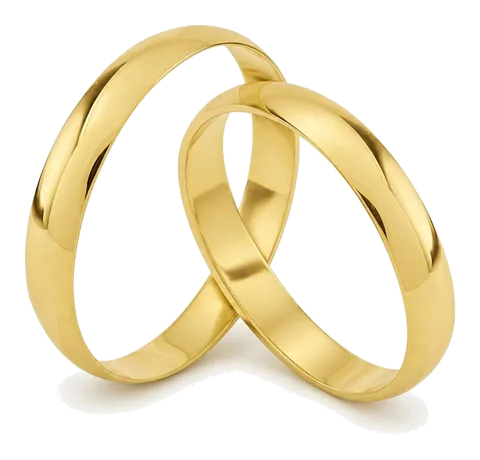
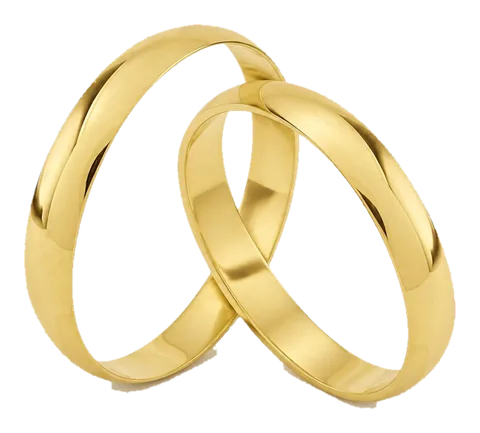
Tira a sombra do fundo que ficou na base das alianças de ouro
Seis fotos (005, 033E, 033, ESC3, 6BVL, X) vinham com a sombra do par no
chão, um cinza neutro entre ~175 e 238; o recorte só tirava o branco
>= 238, e a sombra aparecia como mancha clara na base da peça. Agora o
fundo inclui o cinza acromático e, rente à peça, a sombra bege, separada
do ouro pela saturação (~0,17 contra 0,30+). Essa faixa só vale a partir
da borda da foto: nos vãos, o mesmo tom é reflexo da parede interna.
A borda recua 1px para tirar o halo claro.

O script passa a extrair as fotos com PyMuPDF (o pdfimages não está
instalado). As 3 com máscara no PDF e as fotos na mão não mudaram.

diff --git a/tools/importar-aliancas-ouro.py b/tools/importar-aliancas-ouro.py
@@ -5,27 +5,36 @@ Importador das fotos das alianças de ouro (catálogo de outubro/2026).
 A origem é um PDF (`alianças de ouro/catalogo-ouro-2026-10.pdf`, fora do git),
 não uma pasta de fotos: 18 páginas, duas por par — a foto do produto (com a
 legenda "Cod: ... / largura / peso" escrita como TEXTO do PDF, não na imagem) e
-a foto do par na mão. As imagens embutidas saem inteiras com `pdfimages`
-(poppler-utils), sem rasterizar a página — sem perda e sem a legenda.
+a foto do par na mão. As imagens embutidas saem inteiras com PyMuPDF, sem
+rasterizar a página — sem perda e sem a legenda.
 
 Três das fotos de produto já vêm com máscara (smask) no PDF; as outras seis
-estão sobre branco chapado e passam pelo mesmo recorte por preenchimento das
-pratas (tools/importar-aliancas-prata.py): só sai o branco ligado à borda, e os
-vãos dos aros entram pela erosão. Reflexo do ouro é amarelado, não cinza, e o
-teste de acromático o protege.
+estão sobre branco e passam por um recorte por preenchimento: só sai o fundo
+ligado à borda, e os vãos dos aros entram pela erosão.
+
+O FUNDO NÃO É SÓ BRANCO (19/10/2026): essas seis fotos têm a sombra do par no
+chão, um cinza neutro entre ~175 e 238. O primeiro recorte só tirava o branco
+quase puro (>= 238), e a sombra ficou grudada na base das alianças, como uma
+mancha clara sobre o marfim do card. Agora o fundo é todo pixel ACROMÁTICO e
+claro ligado à borda; a sombra que reflete um pouco do ouro (levemente quente)
+entra numa segunda faixa, mais clara e com um pouco mais de cor. O ouro, mesmo
+no reflexo mais claro, é amarelo (croma bem acima disso), e as zircônias ficam
+cercadas de ouro, sem ligação com a borda.
 
 SAÍDA, em public/produtos/ouro/ (versionada):
     002.webp / 002-sm.webp           recorte, 960 / 480 px
     002-mao.webp / 002-mao-sm.webp   foto na mão, quadrada, 960 / 480 px
 
 Uso:
+    pip install pymupdf
     python tools/importar-aliancas-ouro.py
-Exige `pdfimages` no PATH. Idempotente.
+Idempotente.
 
-A ordem das imagens no PDF é a de PECAS abaixo. Se o PDF mudar, confira com
-`pdfimages -list` antes de rodar — o script não adivinha qual foto é de quem.
+Página 2k-1 é a foto do produto e 2k a da mão, na ordem de PECAS abaixo. Se o
+PDF mudar, confira as páginas antes de rodar — o script não adivinha qual foto
+é de quem.
 """
-import os, subprocess, sys, tempfile
+import io, os, sys
 import numpy as np
 from PIL import Image, ImageDraw, ImageFilter
 RAIZ = os.path.dirname(os.path.dirname(os.path.abspath(__file__)))
@@ -33,18 +42,40 @@ PDF = os.path.join(RAIZ, "alianças de ouro", "catalogo-ouro-2026-10.pdf")
 DST = os.path.join(RAIZ, "public", "produtos", "ouro")
 if not os.path.isfile(PDF):
     sys.exit(f"PDF não encontrado: {PDF}")
+try:
+    import pymupdf
+except ImportError:
+    sys.exit("Falta o PyMuPDF: pip install pymupdf")
 os.makedirs(DST, exist_ok=True)
-SRC = tempfile.mkdtemp(prefix="ouro-")
-subprocess.run(["pdfimages", "-png", PDF, os.path.join(SRC, "img")], check=True)
-# (sku, foto do produto, máscara, foto na mão) — números do `pdfimages -list`.
+DOC = pymupdf.open(PDF)
+def imagem(xref):
+    return Image.open(io.BytesIO(DOC.extract_image(xref)["image"]))
+def da_pagina(n):
+    """(foto, máscara ou None) da única imagem da página n (1 = primeira)."""
+    xref, smask = DOC[n-1].get_images(full=True)[0][:2]
+    return imagem(xref), (imagem(smask) if smask else None)
+# Na ordem das páginas: a peça i ocupa as páginas 2i+1 (produto) e 2i+2 (mão).
 # "X" é a peça da página 17, que veio sem legenda: código a confirmar.
-PECAS = [("002","000","001","002"),("003","003","004","005"),("005","006",None,"007"),
- ("033E","008",None,"009"),("033","010",None,"011"),("034","012","013","014"),
- ("ESC3","015",None,"016"),("6BVL","017",None,"018"),("X","019",None,"020")]
-LIM, DESV, EROS = 238, 14, 21
+PECAS = ["002","003","005","033E","033","034","ESC3","6BVL","X"]
+# Fundo: (claridade mínima, croma máximo). A 1ª faixa é o branco e a sombra
+# cinza; a 2ª, a sombra mais clara que puxa um pouco para o tom do ouro.
+FAIXAS, EROS = ((170, 18), (205, 34)), 21
+# Rente à peça a sombra fica bege, ex. (215, 201, 178): croma ~37, igual ao de
+# borda de ouro, mas SATURAÇÃO (croma / canal mais claro) ~0,17, quando o ouro,
+# mesmo escuro, passa de 0,30. O teto de claridade protege o brilho polido do
+# ouro, que é quase branco (250+) e pouco saturado.
+SOMBRA_SAT, SOMBRA_MAX, SOMBRA_MIN = 0.21, 238, 140
 def recorta(im):
     arr = np.asarray(im.convert("RGB")).astype(np.int16)
-    br = (arr.min(2) >= LIM) & ((arr.max(2)-arr.min(2)) <= DESV)
+    lo, cr = arr.min(2), arr.max(2)-arr.min(2)
+    estrito = np.zeros(lo.shape, bool)
+    for claro, croma in FAIXAS:
+        estrito |= (lo >= claro) & (cr <= croma)
+    hi = arr.max(2)
+    # A sombra bege só existe por fora, no chão. Nos vãos dos aros, o mesmo
+    # tom é reflexo da parede interna do ouro — por isso ela entra só no
+    # preenchimento que parte da borda da foto, e os vãos usam o estrito.
+    br = estrito | ((lo >= SOMBRA_MIN) & (hi <= SOMBRA_MAX) & (cr <= SOMBRA_SAT * hi))
     m = Image.fromarray((br*255).astype(np.uint8),"L").copy()
     w,h = m.size; px = m.load()
     for x in range(0,w,3):
@@ -53,14 +84,19 @@ def recorta(im):
     for y in range(0,h,3):
         for x in (0,w-1):
             if px[x,y]==255: ImageDraw.floodfill(m,(x,y),128)
-    rest = Image.fromarray(((np.asarray(m)==255)*255).astype(np.uint8),"L")
-    nuc = np.asarray(rest.filter(ImageFilter.MinFilter(EROS)))>0
+    fora = np.asarray(m)==128
+    # .copy(): imagem vinda do numpy é só-leitura, e o floodfill falha calado.
+    v = Image.fromarray((estrito & ~fora).astype(np.uint8)*255,"L").copy(); pv = v.load()
+    nuc = np.asarray(v.filter(ImageFilter.MinFilter(EROS)))>0
     ys,xs = np.nonzero(nuc)
     for y,x in zip(ys[::300],xs[::300]):
-        if px[int(x),int(y)]==255: ImageDraw.floodfill(m,(int(x),int(y)),128)
-    a = np.where(np.asarray(m)==128,0,255).astype(np.uint8)
-    # borda suave: 1px de desfoque na máscara evita serrilhado
-    a = np.asarray(Image.fromarray(a,"L").filter(ImageFilter.GaussianBlur(0.8)))
+        if pv[int(x),int(y)]==255: ImageDraw.floodfill(v,(int(x),int(y)),128)
+    fundo = fora | (np.asarray(v)==128)
+    a = np.where(fundo,0,255).astype(np.uint8)
+    # A borda da peça é meio ouro, meio fundo: recuar 1px tira o halo claro.
+    # Depois, 1px de desfoque na máscara evita serrilhado.
+    a = Image.fromarray(a,"L").filter(ImageFilter.MinFilter(3))
+    a = np.asarray(a.filter(ImageFilter.GaussianBlur(0.8)))
     o = im.convert("RGBA"); o.putalpha(Image.fromarray(a,"L")); return o
 def apara(im, folga=0.03):
     bb = im.getchannel("A").point(lambda v:255 if v>8 else 0).getbbox()
@@ -70,15 +106,16 @@ def salva(im, nome, larguras):
     for suf,lw in larguras.items():
         e = lw/im.width
         im.resize((lw, round(im.height*e)), Image.LANCZOS).save(f"{DST}/{nome}{suf}.webp","WEBP",quality=82,method=6)
-for sku,p,mk,mao in PECAS:
-    im = Image.open(f"{SRC}/img-{p}.png").convert("RGB")
+for i, sku in enumerate(PECAS):
+    im, mk = da_pagina(2*i+1)
+    im = im.convert("RGB")
     if mk:
-        o = im.convert("RGBA"); o.putalpha(Image.open(f"{SRC}/img-{mk}.png").convert("L"))
+        o = im.convert("RGBA"); o.putalpha(mk.convert("L").resize(im.size))
     else:
         o = recorta(im)
     o = apara(o)
     salva(o, sku.lower(), {"":960,"-sm":480})
-    m = Image.open(f"{SRC}/img-{mao}.png").convert("RGB")
+    m = da_pagina(2*i+2)[0].convert("RGB")
     s = min(m.size); m = m.crop(((m.width-s)//2,(m.height-s)//2,(m.width+s)//2,(m.height+s)//2))
     salva(m, sku.lower()+"-mao", {"":960,"-sm":480})
     print(sku, o.size, os.path.getsize(f"{DST}/{sku.lower()}.webp")//1024,"KB", os.path.getsize(f"{DST}/{sku.lower()}-mao.webp")//1024,"KB")
